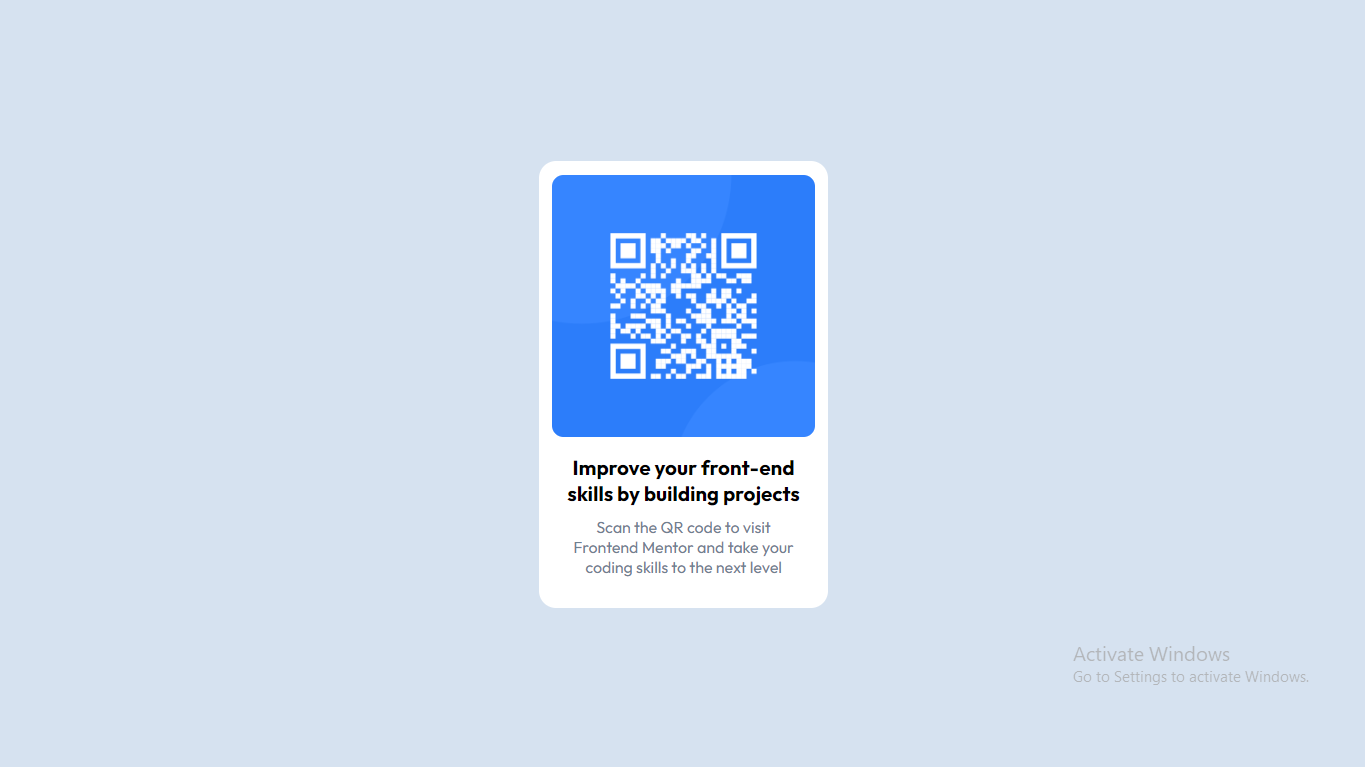
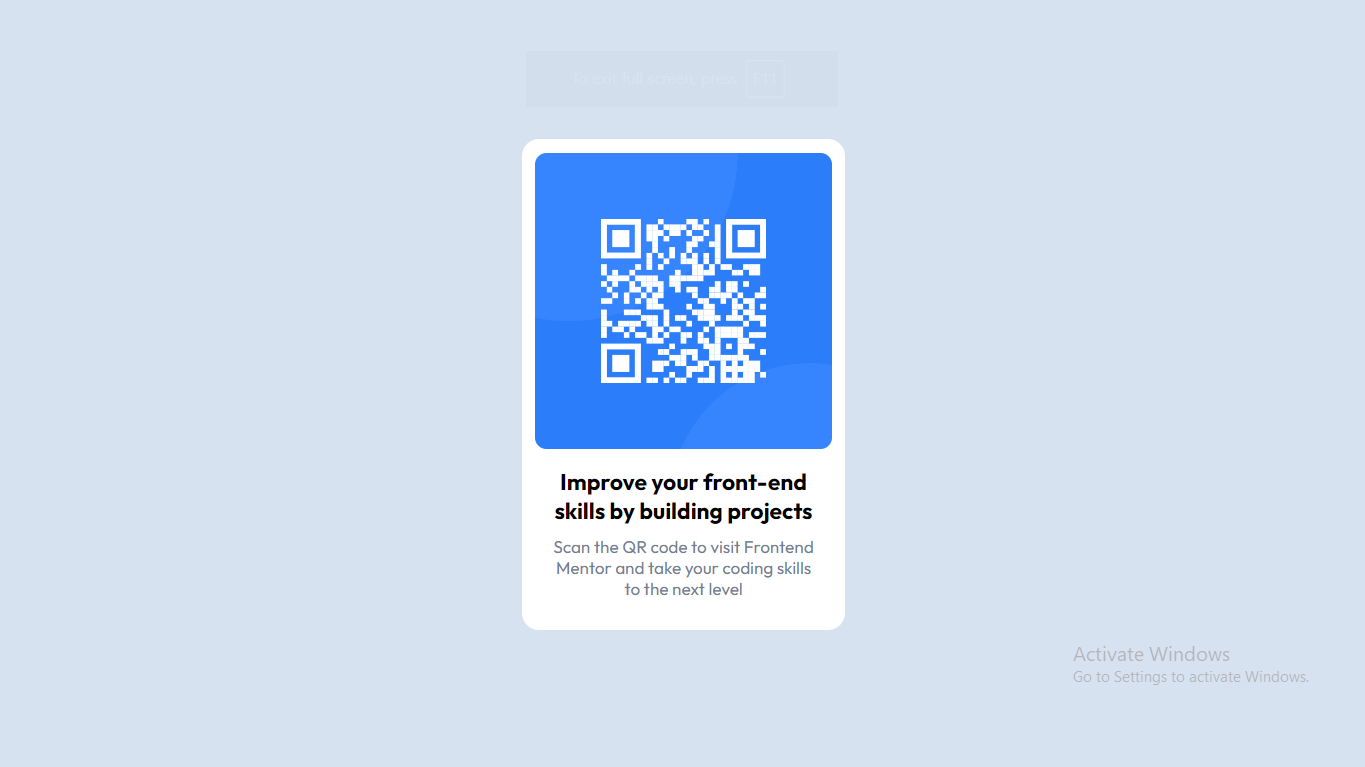
width increased

Changed region(s): [[0.3692, 0.1799, 0.6462, 0.8396]]

diff --git a/style.css b/style.css
@@ -7,7 +7,7 @@ body {
   background-color: hsl(212, 45%, 89%);
 }
 
-.page {
+main {
   display: flex;
   justify-content: center;
   align-items: center;
@@ -16,7 +16,7 @@ body {
 
 .qrbox {
   background-color: #fff;
-  width: 230px;
+  width: 260px;
   padding: 12px;
   border-radius: 15px;
   display: flex;
@@ -27,23 +27,22 @@ body {
 }
 
 img {
-  width: 230px;
+  width: 260px;
   border-radius: 10px;
   max-width: 80vw;
 }
 
-p {
+p,h1 {
   font-family: "Outfit", sans-serif;
   text-align: center; 
 }
-p.line1 {
-    font-size: 18px;
-    font-weight: 700;
+h1 {
+    font-size: 20px;
     margin: 15px 10px 5px;
 }
 
 p.line2 {
-    font-size: 14px;
+    font-size: 15px;
     font-weight: 400;
     margin: 5px 10px 15px;
     color: slategray;

diff --git a/index.html b/index.html
@@ -10,13 +10,13 @@
 </head>
 
 <body>
-    <div class="page">
+    <main role="main">
         <div class="qrbox">
             <img src="images/image-qr-code.png" alt="qr code">
-            <p class="line1">Improve your front-end skills by building projects</p>
+            <h1>Improve your front-end skills by building projects</h1>
             <p class="line2">Scan the QR code to visit Frontend Mentor and take your coding skills to the next level</p>
         </div>
-    </div>
+    </main>
 
 </body>
 
